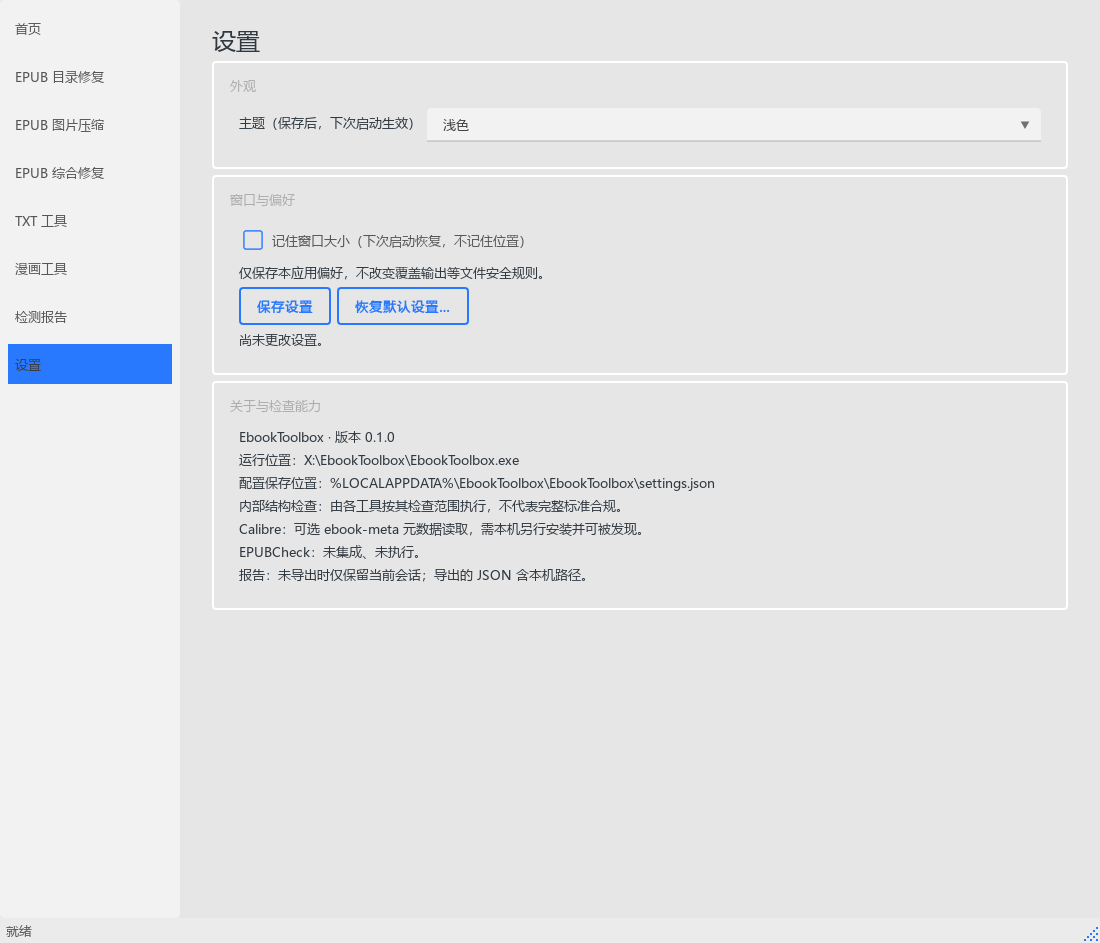
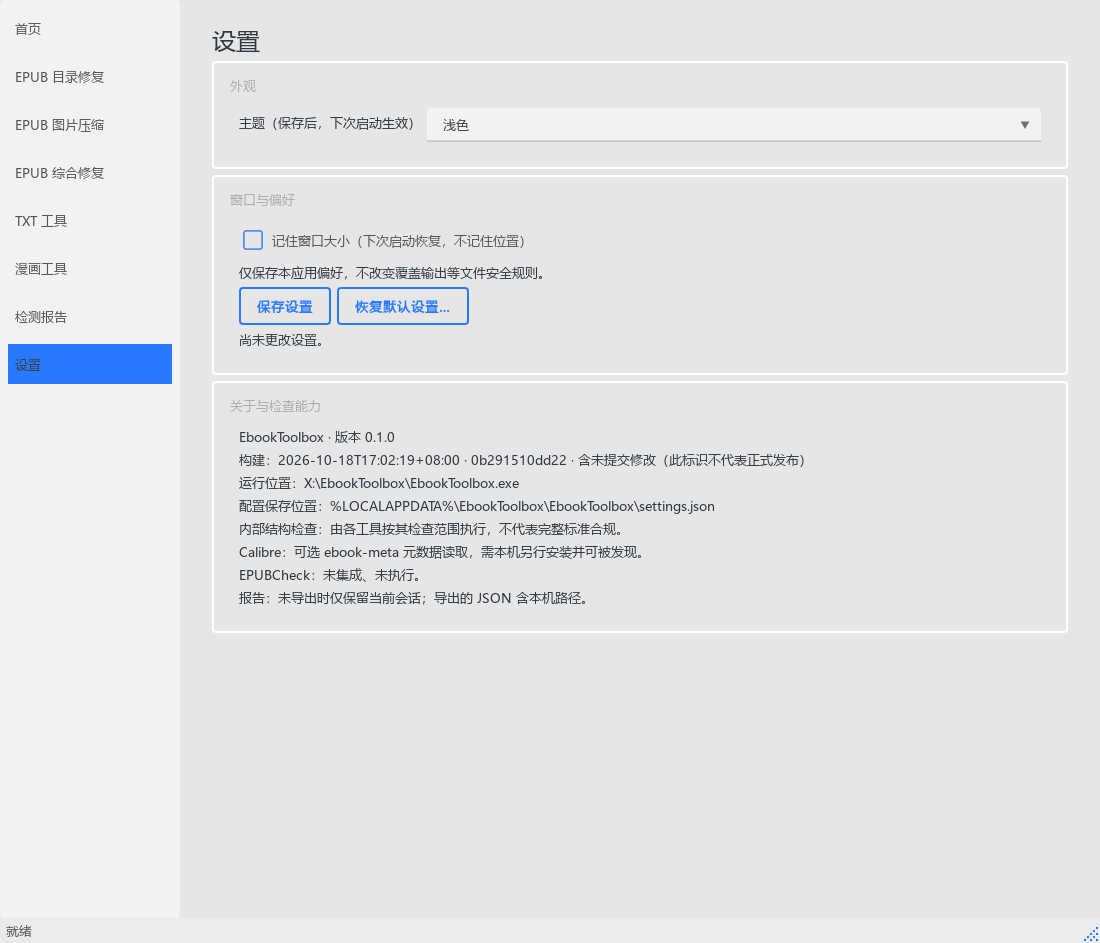
feat: polish settings flow and identify portable builds

Changed region(s): [[0.1855, 0.4613, 0.9582, 0.6766]]

diff --git a/src/ebook_toolbox/ui/pages/settings.py b/src/ebook_toolbox/ui/pages/settings.py
@@ -18,6 +18,7 @@ from PySide6.QtWidgets import (
 )
 
 from ebook_toolbox import __version__
+from ebook_toolbox.build_info import build_description
 from ebook_toolbox.preferences import Preferences, PreferencesStore
 
 
@@ -27,6 +28,7 @@ class SettingsPage(QWidget):
         self.store = store
         self.setObjectName("settingsPage")
         value = store.load()
+        self._saved_options = (value.theme, value.remember_window)
         layout = QVBoxLayout(self)
         layout.setContentsMargins(32, 24, 32, 24)
         title = QLabel("设置")
@@ -67,6 +69,7 @@ class SettingsPage(QWidget):
         runtime = Path(sys.executable) if getattr(sys, "frozen", False) else Path(sys.argv[0])
         for text in (
             f"EbookToolbox · 版本 {__version__}",
+            build_description(),
             f"运行位置：{runtime.resolve()}",
             f"配置保存位置：{store.path}",
             "内部结构检查：由各工具按其检查范围执行，不代表完整标准合规。",
@@ -82,8 +85,40 @@ class SettingsPage(QWidget):
         layout.addStretch()
         self.save_button.clicked.connect(self._save)
         self.reset_button.clicked.connect(self._reset)
+        self.theme_combo.currentIndexChanged.connect(self._options_changed)
+        self.remember_checkbox.toggled.connect(self._options_changed)
 
-    def _save(self) -> None:
+    def has_unsaved_changes(self) -> bool:
+        options = (self.theme_combo.currentData(), self.remember_checkbox.isChecked())
+        return options != self._saved_options
+
+    def _options_changed(self) -> None:
+        message = "有未保存的设置更改。" if self.has_unsaved_changes() else "设置与已保存值一致。"
+        self.status.setText(message)
+
+    def confirm_leave(self) -> bool:
+        if not self.has_unsaved_changes():
+            return True
+        answer = QMessageBox.question(
+            self,
+            "设置尚未保存",
+            "是否保存设置更改？",
+            QMessageBox.StandardButton.Save
+            | QMessageBox.StandardButton.Discard
+            | QMessageBox.StandardButton.Cancel,
+            QMessageBox.StandardButton.Cancel,
+        )
+        if answer == QMessageBox.StandardButton.Save:
+            return self._save()
+        if answer == QMessageBox.StandardButton.Discard:
+            theme, remember = self._saved_options
+            self.theme_combo.setCurrentIndex(1 if theme == "dark" else 0)
+            self.remember_checkbox.setChecked(remember)
+            self._options_changed()
+            return True
+        return False
+
+    def _save(self) -> bool:
         current = self.store.load()
         value = Preferences(
             self.theme_combo.currentData(),
@@ -95,8 +130,11 @@ class SettingsPage(QWidget):
             self.store.save(value)
         except OSError as error:
             self.status.setText(f"设置保存失败，未确认保存成功：{error}")
+            return False
         else:
+            self._saved_options = (value.theme, value.remember_window)
             self.status.setText("设置已保存。主题下次启动生效；窗口大小在正常关闭时保存。")
+            return True
 
     def _reset(self) -> None:
         answer = QMessageBox.question(
@@ -113,6 +151,7 @@ class SettingsPage(QWidget):
         except OSError as error:
             self.status.setText(f"恢复默认设置失败：{error}")
         else:
+            self._saved_options = ("light", False)
             self.theme_combo.setCurrentIndex(0)
             self.remember_checkbox.setChecked(False)
             self.status.setText("已恢复默认设置。主题及默认窗口大小下次启动生效。")

diff --git a/tests/gui/test_ui_polish.py b/tests/gui/test_ui_polish.py
@@ -1,0 +1,56 @@
+import pytest
+from PySide6.QtWidgets import QMessageBox
+
+from ebook_toolbox.preferences import PreferencesStore
+from ebook_toolbox.ui.main_window import MainWindow
+
+
+@pytest.mark.parametrize(
+    "answer,expected_row,saved",
+    [
+        (QMessageBox.StandardButton.Cancel, 7, False),
+        (QMessageBox.StandardButton.Discard, 0, False),
+        (QMessageBox.StandardButton.Save, 0, True),
+    ],
+)
+def test_leave_settings(qtbot, tmp_path, monkeypatch, answer, expected_row, saved):
+    store = PreferencesStore(tmp_path / "中文 空格" / "settings.json")
+    window = MainWindow(store)
+    qtbot.addWidget(window)
+    window.navigation.setCurrentRow(7)
+    page = window.settings_page
+    page.theme_combo.setCurrentIndex(1)
+    assert "未保存" in page.status.text()
+    monkeypatch.setattr(QMessageBox, "question", lambda *a, **k: answer)
+    window.navigation.setCurrentRow(0)
+    assert window.pages.currentIndex() == expected_row
+    assert window.navigation.currentRow() == expected_row
+    assert (store.load().theme == "dark") is saved
+    monkeypatch.setattr(QMessageBox, "question", lambda *a, **k: QMessageBox.StandardButton.Discard)
+    page.confirm_leave()
+
+
+def test_close_cancel_keeps_window(qtbot, tmp_path, monkeypatch):
+    window = MainWindow(PreferencesStore(tmp_path / "settings.json"))
+    qtbot.addWidget(window)
+    window.settings_page.remember_checkbox.setChecked(True)
+    monkeypatch.setattr(QMessageBox, "question", lambda *a, **k: QMessageBox.StandardButton.Cancel)
+    assert window.close() is False
+    window.settings_page.remember_checkbox.setChecked(False)
+
+
+def test_save_failure_blocks_navigation(qtbot, tmp_path, monkeypatch):
+    blocked = tmp_path / "blocked"
+    blocked.write_text("keep", encoding="utf-8")
+    window = MainWindow(PreferencesStore(blocked / "settings.json"))
+    qtbot.addWidget(window)
+    window.navigation.setCurrentRow(7)
+    window.settings_page.theme_combo.setCurrentIndex(1)
+    monkeypatch.setattr(QMessageBox, "question", lambda *a, **k: QMessageBox.StandardButton.Save)
+    window.navigation.setCurrentRow(0)
+    assert window.pages.currentIndex() == 7
+    assert window.settings_page.has_unsaved_changes()
+    assert "失败" in window.settings_page.status.text()
+    assert blocked.read_text(encoding="utf-8") == "keep"
+    monkeypatch.setattr(QMessageBox, "question", lambda *a, **k: QMessageBox.StandardButton.Discard)
+    window.settings_page.confirm_leave()

diff --git a/src/ebook_toolbox/ui/pages/welcome.py b/src/ebook_toolbox/ui/pages/welcome.py
@@ -1,11 +1,10 @@
 """Application welcome page."""
 
-from PySide6.QtCore import Qt
-from PySide6.QtWidgets import QFrame, QLabel, QVBoxLayout, QWidget
+from PySide6.QtWidgets import QLabel, QVBoxLayout, QWidget
 
 
 class WelcomePage(QWidget):
-    """Introduce the application and reserve space for recent tasks."""
+    """Introduce available tools and explain the task report boundary."""
 
     def __init__(self) -> None:
         super().__init__()
@@ -19,22 +18,11 @@ class WelcomePage(QWidget):
         title.setObjectName("welcomeTitle")
         title.setStyleSheet("font-size: 24px; font-weight: 600;")
         description = QLabel(
-            "集中管理 EPUB、TXT 与漫画处理工作流。当前版本已完成应用基础架构，"
-            "实际处理功能将在后续阶段提供。"
+            "已提供 EPUB 目录修复、图片压缩、综合修复与 TXT 工具。"
+            "漫画工具暂未开放。处理记录请到“检测报告”查看；未导出的记录仅保留当前会话。"
         )
         description.setWordWrap(True)
 
-        recent_tasks = QFrame()
-        recent_tasks.setObjectName("recentTasks")
-        recent_tasks.setFrameShape(QFrame.Shape.StyledPanel)
-        recent_layout = QVBoxLayout(recent_tasks)
-        recent_title = QLabel("最近任务")
-        recent_title.setStyleSheet("font-size: 18px; font-weight: 600;")
-        empty_message = QLabel("暂无任务")
-        empty_message.setAlignment(Qt.AlignmentFlag.AlignCenter)
-        recent_layout.addWidget(recent_title)
-        recent_layout.addWidget(empty_message, 1)
-
         layout.addWidget(title)
         layout.addWidget(description)
-        layout.addWidget(recent_tasks, 1)
+        layout.addStretch()

diff --git a/scripts/epub-resource-pages/personal-collection/add_personal_novel_collection_page.py b/scripts/epub-resource-pages/personal-collection/add_personal_novel_collection_page.py
@@ -60,7 +60,7 @@ PAGE = '''<?xml version="1.0" encoding="utf-8"?>
   </header>
   <div class="section-label">个人收藏小说资源</div>
   <section class="card"><div class="card-title">夸克网盘</div><p class="code">无需提取码</p><a href="https://pan.quark.cn/s/e5aff51046f7">打开夸克网盘</a><p class="direct"><strong>直接链接：</strong>https://pan.quark.cn/s/e5aff51046f7</p></section>
-  <section class="card"><div class="card-title">百度网盘</div><p class="code">提取码：x5xw</p><a href="https://pan.baidu.com/s/1R1TMgfeVHq9_uH_Tn01G5Q?pwd=x5xw">打开百度网盘</a><p class="direct"><strong>直接链接：</strong>https://pan.baidu.com/s/1R1TMgfeVHq9_uH_Tn01G5Q?pwd=x5xw</p></section>
+  <section class="card"><div class="card-title">百度网盘</div><p class="code">提取码：wc3f</p><a href="https://pan.baidu.com/s/1zfJ5xZHgWUHoLLpiFdyhwQ?pwd=wc3f">打开百度网盘</a><p class="direct"><strong>直接链接：</strong>https://pan.baidu.com/s/1zfJ5xZHgWUHoLLpiFdyhwQ?pwd=wc3f</p></section>
   <section class="card"><div class="card-title">迅雷云盘</div><p class="code">提取码：aiz2</p><a href="https://pan.xunlei.com/s/VP2WxDcijMvhFWUW4Wn5_AT7A1?pwd=aiz2">打开迅雷云盘</a><p class="direct"><strong>直接链接：</strong>https://pan.xunlei.com/s/VP2WxDcijMvhFWUW4Wn5_AT7A1?pwd=aiz2</p></section>
   <p class="hint">如果按钮无法跳转，请长按或选中上方的完整链接，复制到浏览器中打开。</p>
 </main>

diff --git a/src/ebook_toolbox/ui/main_window.py b/src/ebook_toolbox/ui/main_window.py
@@ -84,14 +84,28 @@ class MainWindow(QMainWindow):
             else:
                 self.pages.addWidget(PlaceholderPage(title))
 
-        self.navigation.page_changed.connect(self.pages.setCurrentIndex)
+        self.navigation.page_changed.connect(self._change_page)
         central_layout.addWidget(self.navigation)
         central_layout.addWidget(self.pages, 1)
         self.setCentralWidget(central_widget)
 
         self.statusBar().showMessage("就绪")
 
+    def _change_page(self, index: int) -> None:
+        if (
+            self.pages.currentWidget() is self.settings_page
+            and not self.settings_page.confirm_leave()
+        ):
+            self.navigation.blockSignals(True)
+            self.navigation.setCurrentRow(self.pages.currentIndex())
+            self.navigation.blockSignals(False)
+            return
+        self.pages.setCurrentIndex(index)
+
     def closeEvent(self, event) -> None:
+        if not self.settings_page.confirm_leave():
+            event.ignore()
+            return
         if self.persist_window:
             value = self.preferences_store.load()
             if value.remember_window and not self.preferences_store.warning:

diff --git a/tests/test_build_info.py b/tests/test_build_info.py
@@ -1,0 +1,32 @@
+import json
+
+import pytest
+
+from ebook_toolbox import build_info
+
+
+@pytest.mark.parametrize("payload", [None, "{bad", "[]", '{"revision": 3}'])
+def test_unknown_identity_is_explicit(tmp_path, monkeypatch, payload):
+    monkeypatch.setattr(build_info, "__file__", str(tmp_path / "build_info.py"))
+    if payload is not None:
+        (tmp_path / "build-info.json").write_text(payload, encoding="utf-8")
+    assert "未知" in build_info.build_description()
+
+
+@pytest.mark.parametrize("dirty", [True, False])
+def test_identity_displays_revision_date_and_dirty_state(tmp_path, monkeypatch, dirty):
+    monkeypatch.setattr(build_info, "__file__", str(tmp_path / "build_info.py"))
+    (tmp_path / "build-info.json").write_text(
+        json.dumps(
+            {
+                "revision": "abc123",
+                "built_at": "2026-10-18T12:00:00+08:00",
+                "dirty": dirty,
+            }
+        ),
+        encoding="utf-8",
+    )
+    description = build_info.build_description()
+    assert "abc123" in description
+    assert "2026-10-18T12:00:00+08:00" in description
+    assert ("含未提交修改" in description) is dirty

diff --git a/src/ebook_toolbox/build_info.py b/src/ebook_toolbox/build_info.py
@@ -1,0 +1,22 @@
+"""Read build-time identity without requiring Git on the user's computer."""
+
+import json
+from pathlib import Path
+
+
+def build_description() -> str:
+    try:
+        value = json.loads(Path(__file__).with_name("build-info.json").read_text(encoding="utf-8"))
+        revision = value["revision"]
+        built_at = value["built_at"]
+        dirty = value["dirty"]
+        if (
+            not isinstance(revision, str)
+            or not isinstance(built_at, str)
+            or type(dirty) is not bool
+        ):
+            raise ValueError("invalid build identity")
+    except (OSError, ValueError, KeyError, TypeError):
+        return "构建标识：未知（源码运行或未提供构建信息）"
+    suffix = " · 含未提交修改" if dirty else ""
+    return f"构建：{built_at} · {revision}{suffix}（此标识不代表正式发布）"
